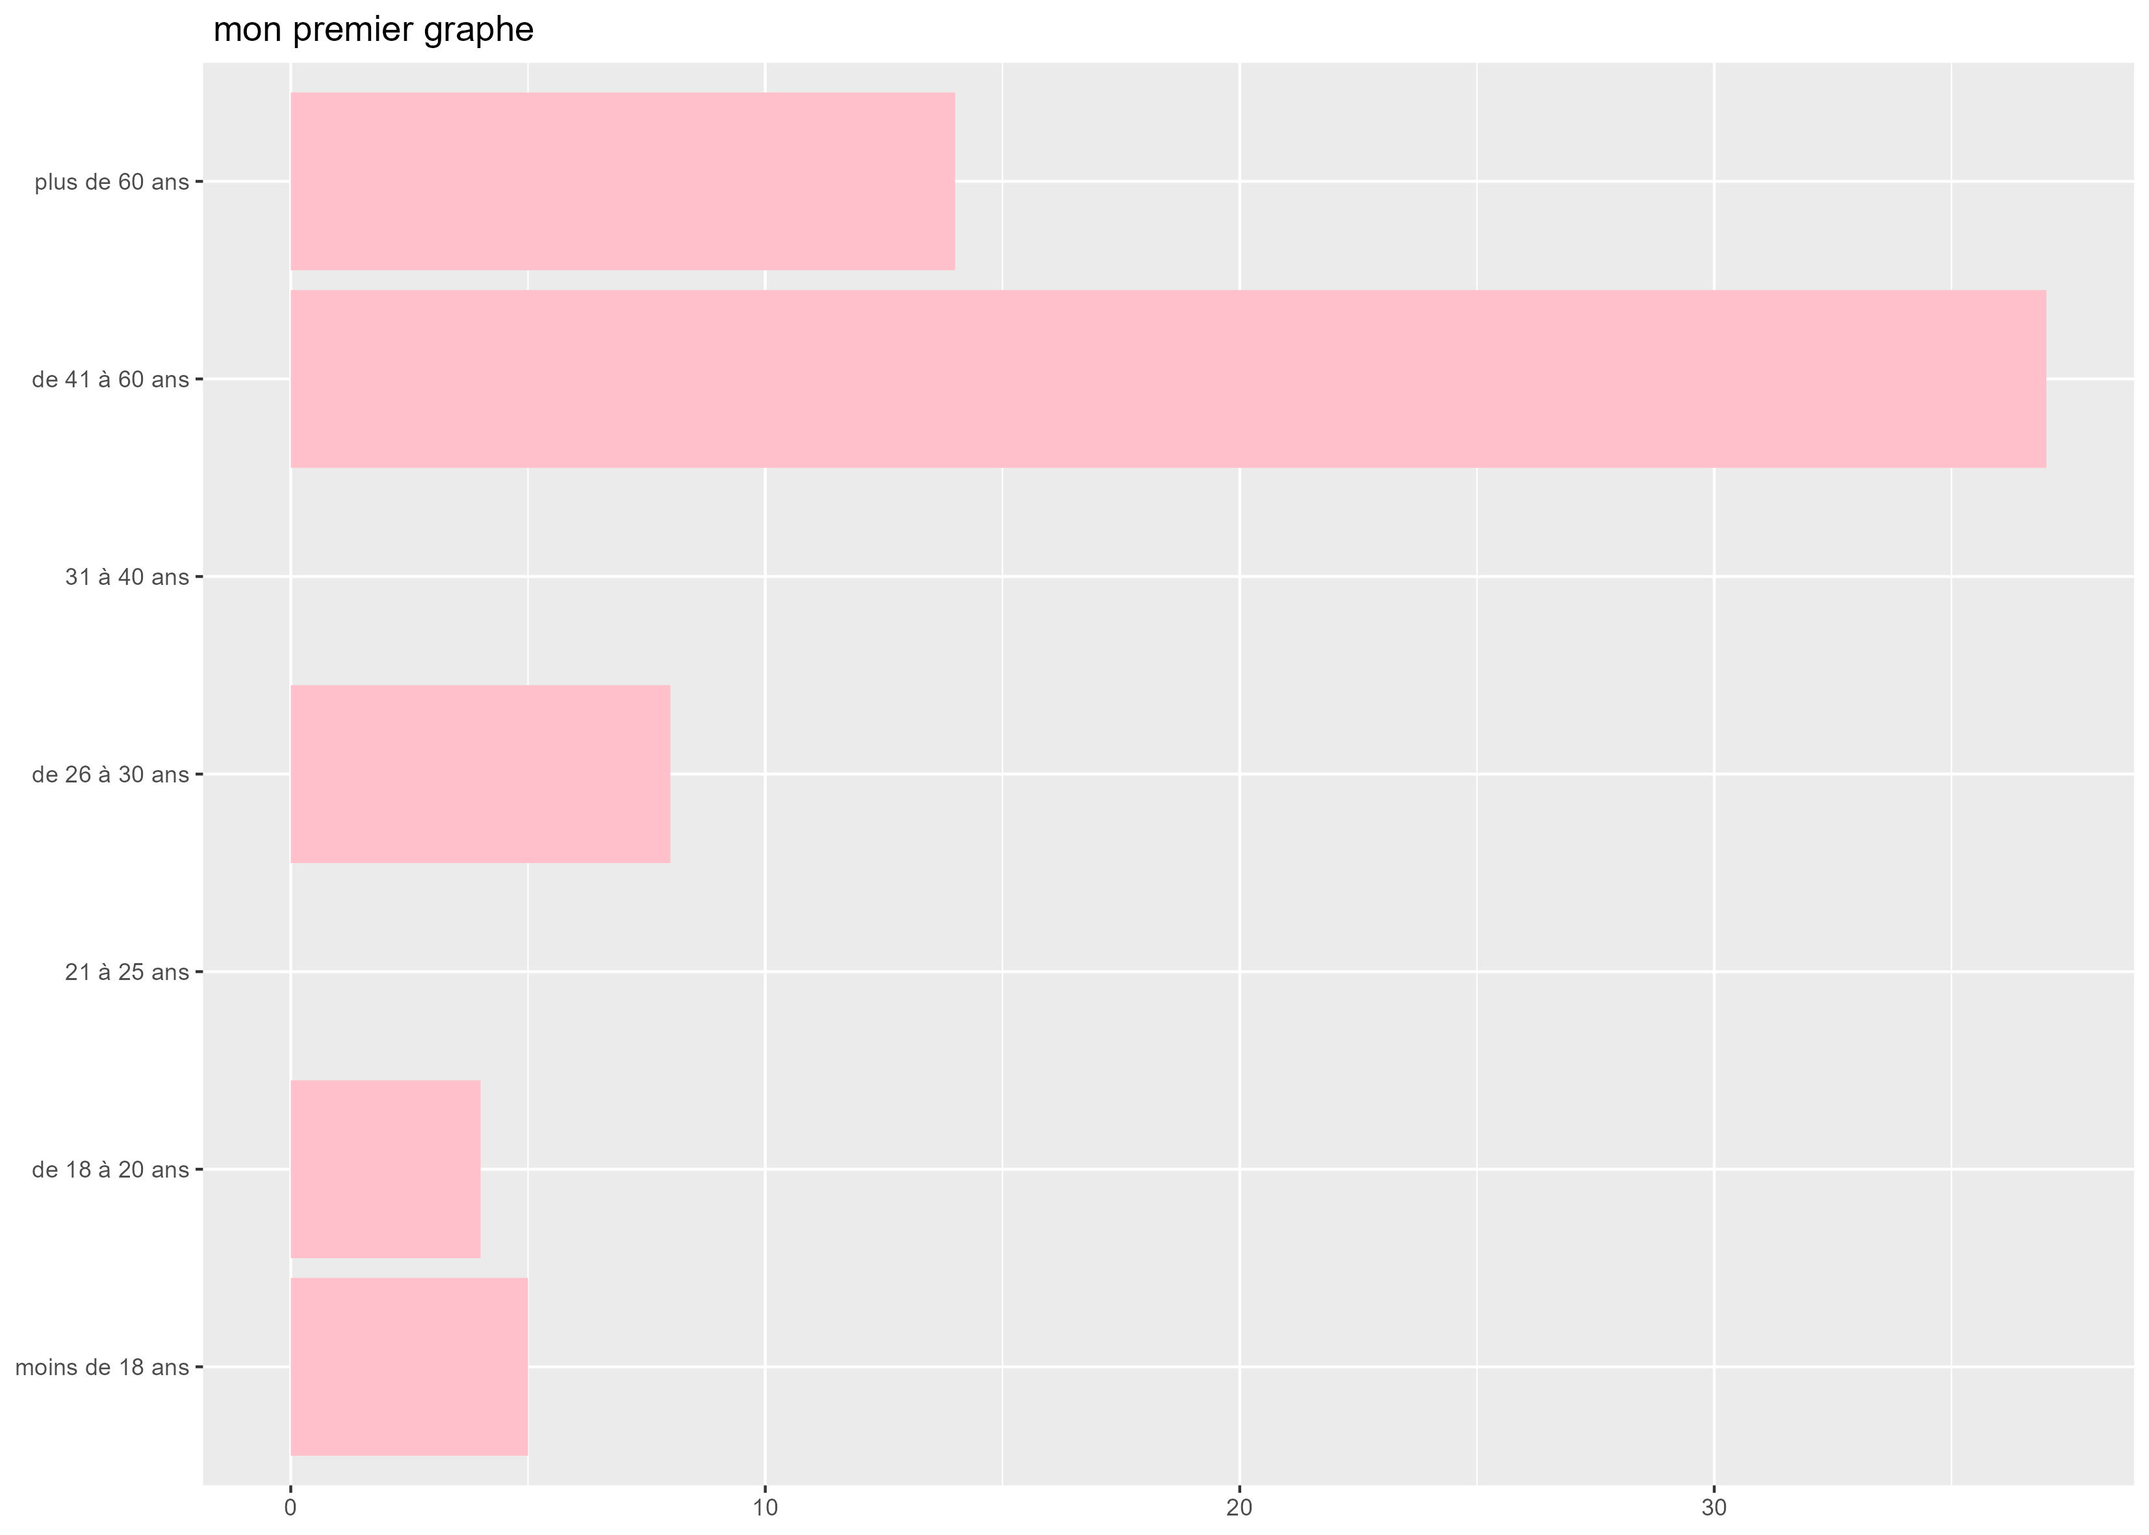
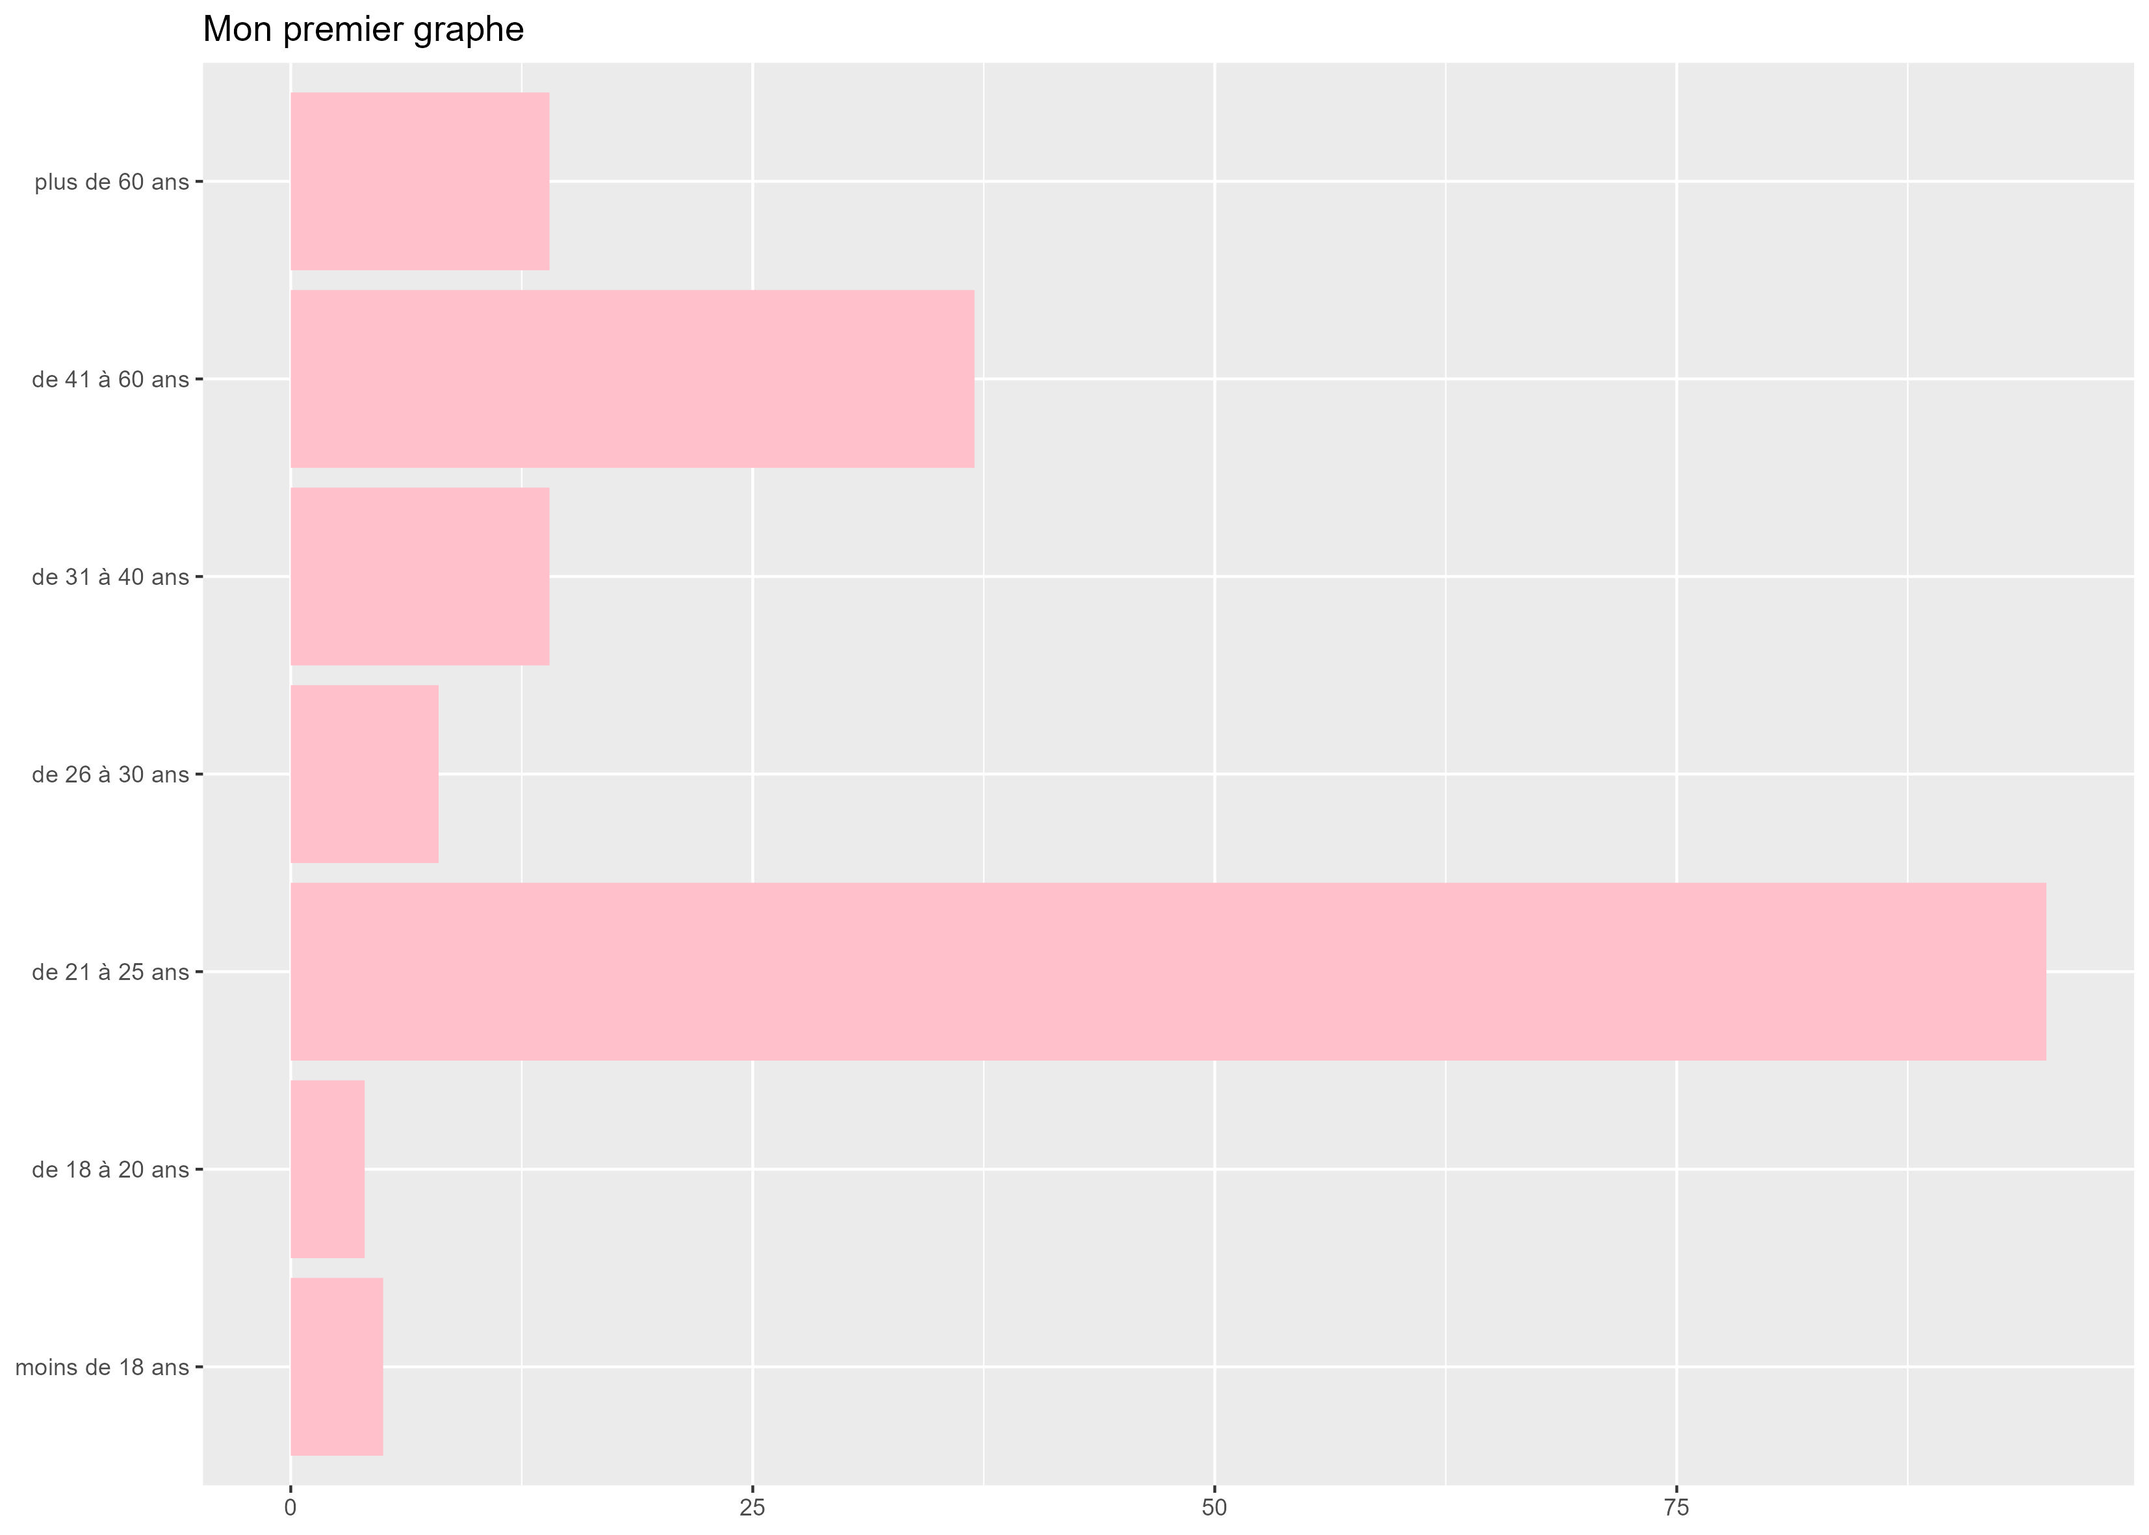
MAJ session1

diff --git a/CodeSiren.html b/CodeSiren.html
@@ -6,9 +6,10 @@
 
 <meta name="viewport" content="width=device-width, initial-scale=1.0, user-scalable=yes">
 
-<meta name="author" content="CB">
+<meta name="author" content="Christophe Benavent">
+<meta name="dcterms.date" content="2023-04-12">
 
-<title>Siren2023</title>
+<title>Séance 1 : introduction et environnement de travail</title>
 <style>
 code{white-space: pre-wrap;}
 span.smallcaps{font-variant: small-caps;}
@@ -97,41 +98,56 @@ code span.wa { color: #60a0b0; font-weight: bold; font-style: italic; } /* Warni
 <script src="CodeSiren_files/libs/bootstrap/bootstrap.min.js"></script>
 <link href="CodeSiren_files/libs/bootstrap/bootstrap-icons.css" rel="stylesheet">
 <link href="CodeSiren_files/libs/bootstrap/bootstrap.min.css" rel="stylesheet" id="quarto-bootstrap" data-mode="light">
+<style>
+    .quarto-title-block .quarto-title-banner {
+      background-image: url(img01.jpeg);
+background-size: cover;
+    }
+    </style>
 
 
 </head>
 
 <body class="fullcontent">
 
-<div id="quarto-content" class="page-columns page-rows-contents page-layout-article">
-
-<main class="content" id="quarto-document-content">
-
-<header id="title-block-header" class="quarto-title-block default">
-<div class="quarto-title">
-<h1 class="title">Siren2023</h1>
-</div>
-
-
-
-<div class="quarto-title-meta">
-
-    <div>
-    <div class="quarto-title-meta-heading">Author</div>
-    <div class="quarto-title-meta-contents">
-             <p>CB </p>
-          </div>
+<header id="title-block-header" class="quarto-title-block default page-columns page-full">
+  <div class="quarto-title-banner page-columns page-full">
+    <div class="quarto-title column-body">
+      <h1 class="title">Séance 1 : introduction et environnement de travail</h1>
+            <p class="subtitle lead">Master 2 siren 2023</p>
+                      </div>
   </div>
     
   
-    
-  </div>
-  
+  <div class="quarto-title-meta">
 
-</header>
+      <div>
+      <div class="quarto-title-meta-heading">Author</div>
+      <div class="quarto-title-meta-contents">
+               <p>Christophe Benavent </p>
+            </div>
+    </div>
+      
+      <div>
+      <div class="quarto-title-meta-heading">Published</div>
+      <div class="quarto-title-meta-contents">
+        <p class="date">April 12, 2023</p>
+      </div>
+    </div>
+    
+      
+    </div>
+    
+  
+  </header><div id="quarto-content" class="page-columns page-rows-contents page-layout-article">
+
+<main class="content quarto-banner-title-block" id="quarto-document-content">
+
+
+
 
 <section id="préalable" class="level2">
-<h2 class="anchored" data-anchor-id="préalable">préalable</h2>
+<h2 class="anchored" data-anchor-id="préalable">Préalable</h2>
 <ul>
 <li>Installer <a href="https://cran.r-project.org/">r</a> , le langage.</li>
 <li>Installer <a href="https://posit.co/download/rstudio-desktop/">rstudio</a>, l’environnement de travail.</li>
@@ -144,7 +160,8 @@ code span.wa { color: #60a0b0; font-weight: bold; font-style: italic; } /* Warni
 </section>
 <section id="un-premier-code" class="level2">
 <h2 class="anchored" data-anchor-id="un-premier-code">Un premier code</h2>
-<p>Le code lit un fichier csv nommé <code>"MusicPlateform2.csv"</code> et l’assigne à un dataframe <code>df</code>. La fonction <code>rename()</code> est utilisée pour renommer la 71ème colonne par <code>Age</code>. Ensuite, le code convertit la colonne <code>Age</code> en un facteur avec des niveaux ordonnés qui reflètent les différents groupes d’âge. La fonction <code>table()</code> est utilisée pour créer une table de fréquence de la colonne Age et l’assigne à <code>foo</code>.</p>
+<p>Le code lit un fichier csv nommé <code>"MusicPlateform2.csv"</code> et l’assigne à un dataframe <code>df</code>. Ce fichier vient de l’enquête sur les plateformes musicales dont le questionnaire est <a href=""><strong>ici</strong></a> (N’hésitez pas à y répondre!)</p>
+<p>La fonction <code>rename()</code> est utilisée pour renommer la 71ème colonne par <code>Age</code>. Ensuite, le code convertit la colonne <code>Age</code> en un facteur avec des niveaux ordonnés qui reflètent les différents groupes d’âge. La fonction <code>table()</code> est utilisée pour créer une table de fréquence de la colonne Age et l’assigne à <code>foo</code>.</p>
 <p>Enfin, <code>ggplot()</code> est utilisé pour créer un graphique à barres où la colonne <code>Var1</code> (qui contient les groupes d’âge) est affichée sur l’axe <code>x</code>, et la colonne <code>Freq</code> (qui contient les fréquences) est affichée sur l’axe <code>y</code>. La fonction <code>geom_bar()</code> est utilisée pour créer un graphique à barres, et <code>coord_flip()</code> est utilisé pour inverser les axes x et y. <code>labs()</code> est utilisé pour ajouter un titre au graphique et pour supprimer les étiquettes des axes x et y.</p>
 <div class="cell">
 <details>
@@ -155,32 +172,43 @@ code span.wa { color: #60a0b0; font-weight: bold; font-style: italic; } /* Warni
 <span id="cb1-4"><a href="#cb1-4" aria-hidden="true" tabindex="-1"></a><span class="co">#importer le fichier </span></span>
 <span id="cb1-5"><a href="#cb1-5" aria-hidden="true" tabindex="-1"></a>df <span class="ot">&lt;-</span> <span class="fu">read_csv</span>(<span class="st">"MusicPlateform2.csv"</span>) <span class="sc">%&gt;%</span></span>
 <span id="cb1-6"><a href="#cb1-6" aria-hidden="true" tabindex="-1"></a>  <span class="fu">rename</span>(<span class="at">Age=</span><span class="dv">71</span>)</span>
-<span id="cb1-7"><a href="#cb1-7" aria-hidden="true" tabindex="-1"></a><span class="co">#recoder et ordonner les modalité d'âge</span></span>
-<span id="cb1-8"><a href="#cb1-8" aria-hidden="true" tabindex="-1"></a></span>
-<span id="cb1-9"><a href="#cb1-9" aria-hidden="true" tabindex="-1"></a>df<span class="sc">$</span>Age <span class="ot">&lt;-</span> <span class="fu">factor</span>(df<span class="sc">$</span>Age, <span class="at">ordered =</span> <span class="cn">TRUE</span>, </span>
-<span id="cb1-10"><a href="#cb1-10" aria-hidden="true" tabindex="-1"></a>                                <span class="at">levels =</span> <span class="fu">c</span>(<span class="st">"moins de 18 ans"</span>, </span>
-<span id="cb1-11"><a href="#cb1-11" aria-hidden="true" tabindex="-1"></a>                                           <span class="st">"de 18 à 20 ans"</span>, </span>
-<span id="cb1-12"><a href="#cb1-12" aria-hidden="true" tabindex="-1"></a>                                           <span class="st">"21 à 25 ans"</span>, </span>
-<span id="cb1-13"><a href="#cb1-13" aria-hidden="true" tabindex="-1"></a>                                           <span class="st">"de 26 à 30 ans"</span>, </span>
-<span id="cb1-14"><a href="#cb1-14" aria-hidden="true" tabindex="-1"></a>                                           <span class="st">"31 à 40 ans"</span>,</span>
-<span id="cb1-15"><a href="#cb1-15" aria-hidden="true" tabindex="-1"></a>                                           <span class="st">"de 41 à 60 ans"</span>,</span>
-<span id="cb1-16"><a href="#cb1-16" aria-hidden="true" tabindex="-1"></a>                                           <span class="st">"plus de 60 ans"</span>))</span>
-<span id="cb1-17"><a href="#cb1-17" aria-hidden="true" tabindex="-1"></a><span class="co">#transformer la table en dataframe</span></span>
-<span id="cb1-18"><a href="#cb1-18" aria-hidden="true" tabindex="-1"></a>foo<span class="ot">&lt;-</span> <span class="fu">as.data.frame</span>(<span class="fu">table</span>(df<span class="sc">$</span>Age))</span>
-<span id="cb1-19"><a href="#cb1-19" aria-hidden="true" tabindex="-1"></a></span>
-<span id="cb1-20"><a href="#cb1-20" aria-hidden="true" tabindex="-1"></a><span class="co"># relaiser le graphique</span></span>
-<span id="cb1-21"><a href="#cb1-21" aria-hidden="true" tabindex="-1"></a><span class="fu">ggplot</span>(foo,<span class="fu">aes</span>(<span class="at">x=</span>Var1, <span class="at">y=</span>Freq))<span class="sc">+</span></span>
-<span id="cb1-22"><a href="#cb1-22" aria-hidden="true" tabindex="-1"></a>  <span class="fu">geom_bar</span>(<span class="at">stat=</span><span class="st">"identity"</span>, <span class="at">fill=</span><span class="st">"pink"</span>)<span class="sc">+</span></span>
-<span id="cb1-23"><a href="#cb1-23" aria-hidden="true" tabindex="-1"></a>  <span class="fu">coord_flip</span>()<span class="sc">+</span></span>
-<span id="cb1-24"><a href="#cb1-24" aria-hidden="true" tabindex="-1"></a>  <span class="fu">labs</span>(<span class="at">title=</span><span class="st">" mon premier graphe"</span>, <span class="at">x=</span><span class="cn">NULL</span>, <span class="at">y=</span><span class="cn">NULL</span>)</span></code><button title="Copy to Clipboard" class="code-copy-button"><i class="bi"></i></button></pre></div>
+<span id="cb1-7"><a href="#cb1-7" aria-hidden="true" tabindex="-1"></a><span class="fu">table</span>(df<span class="sc">$</span>Age)</span></code><button title="Copy to Clipboard" class="code-copy-button"><i class="bi"></i></button></pre></div>
+</details>
+<div class="cell-output cell-output-stdout">
+<pre><code>
+ de 18 à 20 ans  de 21 à 25 ans  de 26 à 30 ans  de 31 à 40 ans  de 41 à 60 ans 
+              4              95               8              14              37 
+moins de 18 ans  plus de 60 ans 
+              5              14 </code></pre>
+</div>
+<details>
+<summary>Code</summary>
+<div class="sourceCode cell-code" id="cb3"><pre class="sourceCode r code-with-copy"><code class="sourceCode r"><span id="cb3-1"><a href="#cb3-1" aria-hidden="true" tabindex="-1"></a><span class="co">#recoder et ordonner les modalité d'âge</span></span>
+<span id="cb3-2"><a href="#cb3-2" aria-hidden="true" tabindex="-1"></a></span>
+<span id="cb3-3"><a href="#cb3-3" aria-hidden="true" tabindex="-1"></a>df<span class="sc">$</span>Age <span class="ot">&lt;-</span> <span class="fu">factor</span>(df<span class="sc">$</span>Age, <span class="at">ordered =</span> <span class="cn">TRUE</span>, </span>
+<span id="cb3-4"><a href="#cb3-4" aria-hidden="true" tabindex="-1"></a>                                <span class="at">levels =</span> <span class="fu">c</span>(<span class="st">"moins de 18 ans"</span>, </span>
+<span id="cb3-5"><a href="#cb3-5" aria-hidden="true" tabindex="-1"></a>                                           <span class="st">"de 18 à 20 ans"</span>, </span>
+<span id="cb3-6"><a href="#cb3-6" aria-hidden="true" tabindex="-1"></a>                                           <span class="st">"de 21 à 25 ans"</span>, </span>
+<span id="cb3-7"><a href="#cb3-7" aria-hidden="true" tabindex="-1"></a>                                           <span class="st">"de 26 à 30 ans"</span>, </span>
+<span id="cb3-8"><a href="#cb3-8" aria-hidden="true" tabindex="-1"></a>                                           <span class="st">"de 31 à 40 ans"</span>,</span>
+<span id="cb3-9"><a href="#cb3-9" aria-hidden="true" tabindex="-1"></a>                                           <span class="st">"de 41 à 60 ans"</span>,</span>
+<span id="cb3-10"><a href="#cb3-10" aria-hidden="true" tabindex="-1"></a>                                           <span class="st">"plus de 60 ans"</span>))</span>
+<span id="cb3-11"><a href="#cb3-11" aria-hidden="true" tabindex="-1"></a><span class="co">#transformer la table en dataframe</span></span>
+<span id="cb3-12"><a href="#cb3-12" aria-hidden="true" tabindex="-1"></a>foo<span class="ot">&lt;-</span> <span class="fu">as.data.frame</span>(<span class="fu">table</span>(df<span class="sc">$</span>Age))</span>
+<span id="cb3-13"><a href="#cb3-13" aria-hidden="true" tabindex="-1"></a></span>
+<span id="cb3-14"><a href="#cb3-14" aria-hidden="true" tabindex="-1"></a><span class="co"># relaiser le graphique</span></span>
+<span id="cb3-15"><a href="#cb3-15" aria-hidden="true" tabindex="-1"></a><span class="fu">ggplot</span>(foo,<span class="fu">aes</span>(<span class="at">x=</span>Var1, <span class="at">y=</span>Freq))<span class="sc">+</span></span>
+<span id="cb3-16"><a href="#cb3-16" aria-hidden="true" tabindex="-1"></a>  <span class="fu">geom_bar</span>(<span class="at">stat=</span><span class="st">"identity"</span>, <span class="at">fill=</span><span class="st">"pink"</span>)<span class="sc">+</span></span>
+<span id="cb3-17"><a href="#cb3-17" aria-hidden="true" tabindex="-1"></a>  <span class="fu">coord_flip</span>()<span class="sc">+</span></span>
+<span id="cb3-18"><a href="#cb3-18" aria-hidden="true" tabindex="-1"></a>  <span class="fu">labs</span>(<span class="at">title=</span><span class="st">"Mon premier graphe"</span>, <span class="at">x=</span><span class="cn">NULL</span>, <span class="at">y=</span><span class="cn">NULL</span>)</span></code><button title="Copy to Clipboard" class="code-copy-button"><i class="bi"></i></button></pre></div>
 </details>
 <div class="cell-output-display">
 <p><img src="CodeSiren_files/figure-html/01-1.png" class="img-fluid" width="672"></p>
 </div>
 <details>
 <summary>Code</summary>
-<div class="sourceCode cell-code" id="cb2"><pre class="sourceCode r code-with-copy"><code class="sourceCode r"><span id="cb2-1"><a href="#cb2-1" aria-hidden="true" tabindex="-1"></a><span class="co"># sauvegarder le dossier </span></span>
-<span id="cb2-2"><a href="#cb2-2" aria-hidden="true" tabindex="-1"></a><span class="fu">ggsave</span>(<span class="st">"G1.jpeg"</span>, <span class="at">plot=</span><span class="fu">last_plot</span>(), <span class="at">width =</span> <span class="dv">28</span>, <span class="at">height =</span> <span class="dv">20</span>, <span class="at">units =</span> <span class="st">"cm"</span>)</span></code><button title="Copy to Clipboard" class="code-copy-button"><i class="bi"></i></button></pre></div>
+<div class="sourceCode cell-code" id="cb4"><pre class="sourceCode r code-with-copy"><code class="sourceCode r"><span id="cb4-1"><a href="#cb4-1" aria-hidden="true" tabindex="-1"></a><span class="co"># sauvegarder le dossier </span></span>
+<span id="cb4-2"><a href="#cb4-2" aria-hidden="true" tabindex="-1"></a><span class="fu">ggsave</span>(<span class="st">"G1.jpeg"</span>, <span class="at">plot=</span><span class="fu">last_plot</span>(), <span class="at">width =</span> <span class="dv">28</span>, <span class="at">height =</span> <span class="dv">20</span>, <span class="at">units =</span> <span class="st">"cm"</span>)</span></code><button title="Copy to Clipboard" class="code-copy-button"><i class="bi"></i></button></pre></div>
 </details>
 </div>
 </section>
